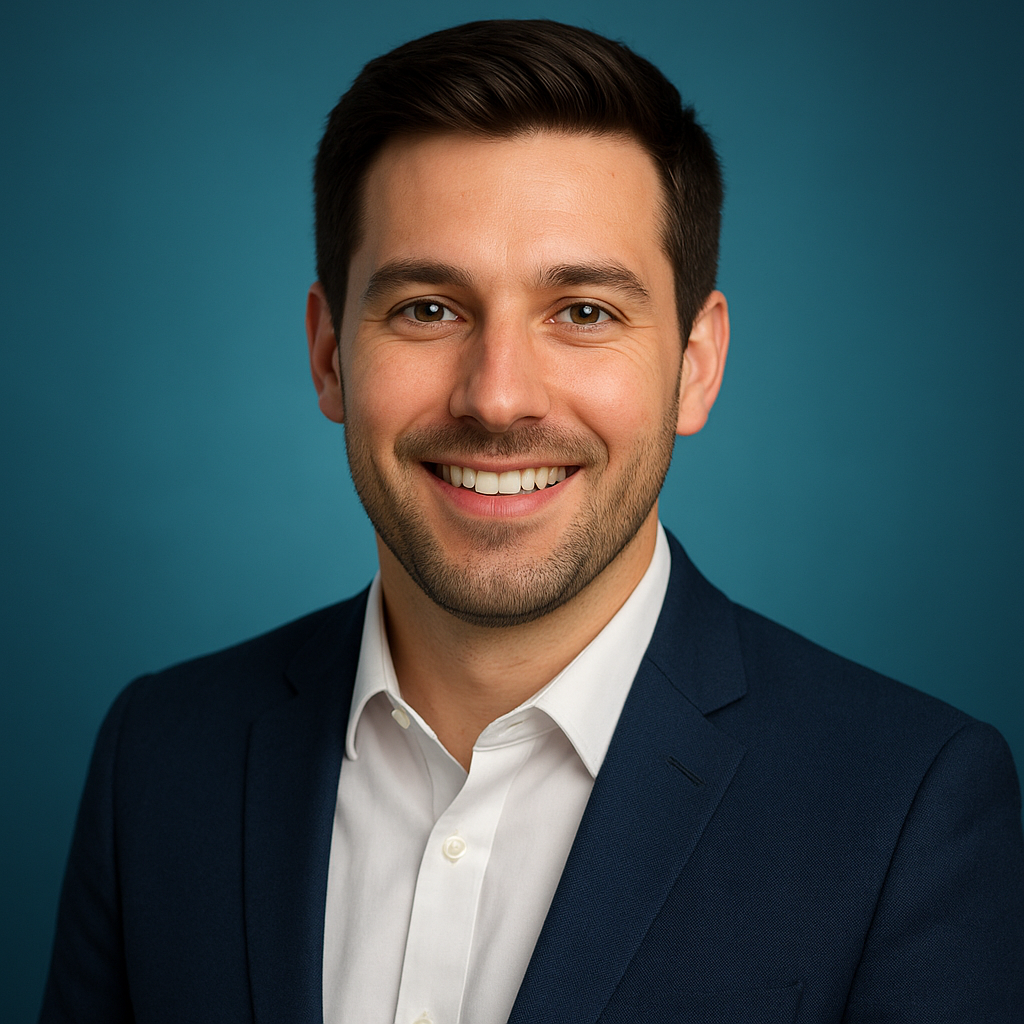
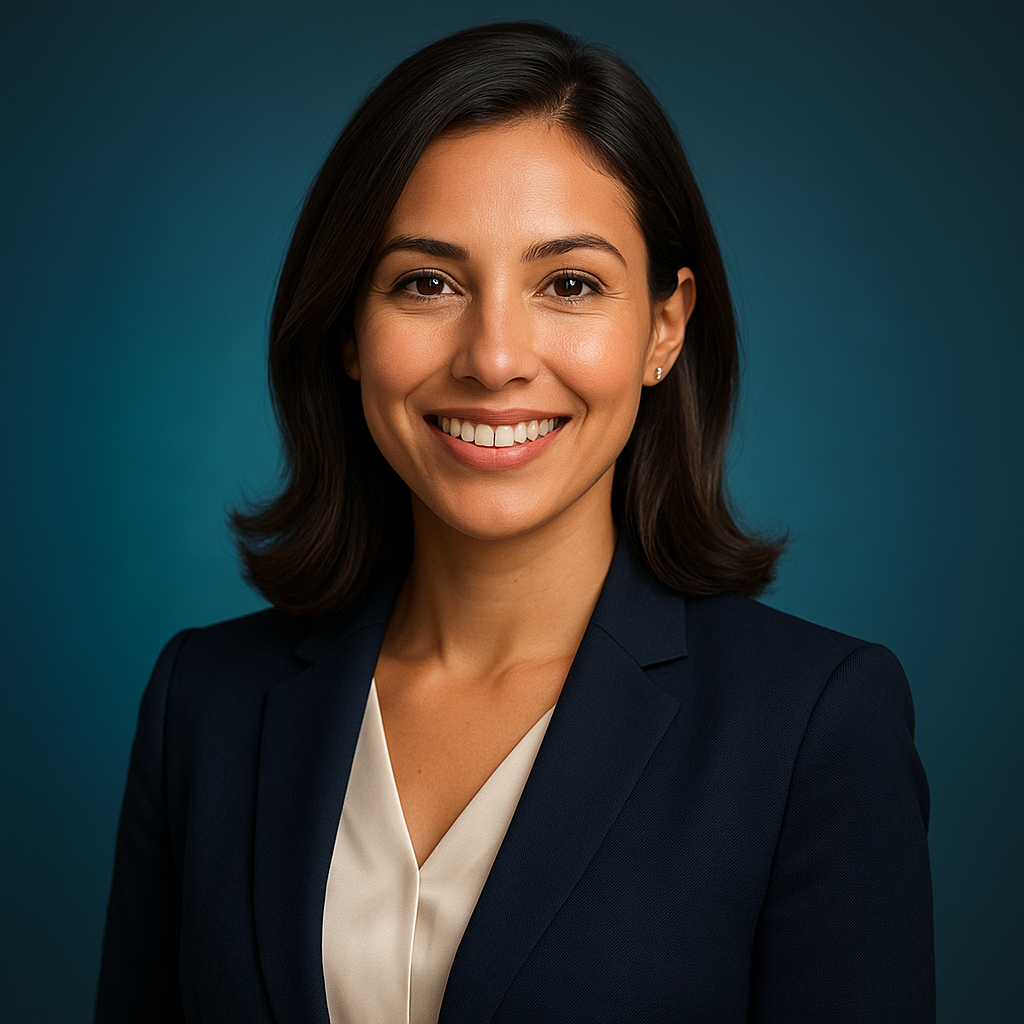
New face + phone mockup

diff --git a/index.html b/index.html
@@ -103,28 +103,37 @@
       50% { transform: translateY(-8px); }
     }
     .hero-visual-phone {
-      width: 280px; height: 460px; background: #1f2937; border-radius: 28px;
-      padding: 16px; position: relative;
-      box-shadow: 0 20px 60px rgba(0,0,0,.15);
+      width: 280px; height: 480px; background: linear-gradient(135deg,#1a1a2e,#16213e); border-radius: 32px;
+      padding: 12px; position: relative;
+      box-shadow: 0 20px 60px rgba(0,0,0,.25), 0 0 0 1px rgba(99,102,241,.15);
+      border: 1px solid rgba(255,255,255,.08);
+    }
+    .hero-visual-phone::before {
+      content: ''; position: absolute; top: 8px; left: 50%; transform: translateX(-50%);
+      width: 120px; height: 18px; background: #1a1a2e; border-radius: 0 0 12px 12px;
+      z-index: 2; border: 1px solid rgba(255,255,255,.08); border-top: none;
     }
     .hero-visual-screen {
-      width: 100%; height: 100%; background: #fff; border-radius: 20px;
+      width: 100%; height: 100%; background: #0f0f1a; border-radius: 24px;
       overflow: hidden; display: flex; flex-direction: column;
+      border: 1px solid rgba(255,255,255,.05);
     }
     .hero-visual-header {
-      padding: 12px 16px; background: linear-gradient(135deg,#6366f1,#4f46e5);
-      color: #fff; font-size: 13px; font-weight: 600; text-align: center;
+      padding: 16px 14px 12px; background: linear-gradient(135deg,#1e1e3a,#2a1a4e);
+      color: #fff; font-size: 12px; font-weight: 600; text-align: center;
+      letter-spacing: .5px; border-bottom: 1px solid rgba(255,255,255,.05);
     }
+    .hero-visual-header span { opacity: .6; font-weight: 400; }
     .hero-visual-msg {
       flex: 1; padding: 12px; display: flex; flex-direction: column; gap: 8px;
-      background: #f8f9fb; overflow: hidden;
+      background: #0f0f1a; overflow: hidden;
     }
     .hero-visual-bubble {
-      padding: 8px 12px; border-radius: 12px; font-size: 12px; max-width: 80%;
-      animation: fadeUp .4s ease;
+      padding: 10px 14px; border-radius: 16px; font-size: 12px; max-width: 80%;
+      animation: fadeUp .4s ease; line-height: 1.5;
     }
-    .hero-visual-bubble.bot { align-self: flex-start; background: #fff; color: #1f2937; box-shadow: 0 1px 3px rgba(0,0,0,.06); }
-    .hero-visual-bubble.user { align-self: flex-end; background: #6366f1; color: #fff; }
+    .hero-visual-bubble.bot { align-self: flex-start; background: rgba(99,102,241,.15); color: #e0e0ff; border: 1px solid rgba(99,102,241,.1); }
+    .hero-visual-bubble.user { align-self: flex-end; background: linear-gradient(135deg,#6366f1,#7c3aed); color: #fff; }
     .hero-visual-bubble:nth-child(2) { animation-delay: .3s; }
     .hero-visual-bubble:nth-child(3) { animation-delay: .6s; }
     .hero-visual-bubble:nth-child(4) { animation-delay: .9s; }